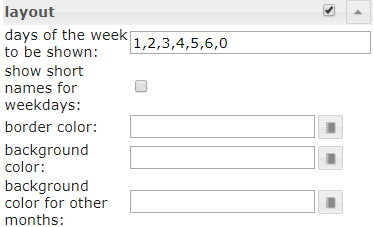
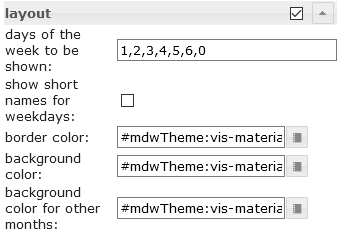
readme updated

diff --git a/README.md b/README.md
@@ -98,11 +98,14 @@ ioBroker Material Design Widgets are based on [Google's material design guidelin
 			- [Editor Settings](#editor-settings-13)
 	- [Alerts](#alerts)
 		- [Editor Settings](#editor-settings-14)
-		- [JSON Properties](#json-properties-2)
+		- [Datapoint JSON Properties](#datapoint-json-properties)
 		- [Script: send alert to widget](#script-send-alert-to-widget)
 	- [Calendar](#calendar)
-	- [Dialog](#dialog)
 		- [Editor Settings](#editor-settings-15)
+		- [Datapoint JSON Properties](#datapoint-json-properties-1)
+		- [Script: ical conversion](#script-ical-conversion)
+	- [Dialog](#dialog)
+		- [Editor Settings](#editor-settings-16)
 	- [HTML Elements](#html-elements)
 - [used libraries](#used-libraries)
 - [Changelog](#changelog)
@@ -9257,7 +9260,7 @@ Settings that are not listed in the table below are self-explanatory.
     </tbody>
 </table>
 
-### JSON Properties
+### Datapoint JSON Properties
 
 <table>
 	<thead>
@@ -9309,7 +9312,7 @@ Settings that are not listed in the table below are self-explanatory.
 </table>
 
 <!-- omit in toc -->
-#### JSON Properties - Example
+#### Datapoint JSON Properties - Example
 
 <details>
 
@@ -9387,7 +9390,100 @@ materialDesignWidgets.sendTo = function (id, text, backgroundColor = '', borderC
 
 ![Logo](doc/en/media/calendar.gif)
 
-The Calendar widget requires a JSON string as object, which must be structured as follows:
+### Editor Settings
+
+Settings that are not listed in the table below are self-explanatory.
+
+<table>
+    <thead>
+        <tr>
+            <th>Screenshot</th>
+            <th>Setting</th>
+            <th>Description</th>
+        </tr>
+    </thead>
+    <tbody>
+        <tr>
+            <td rowspan=1><img src="doc/en/media/calendar_common.png"></td>
+            <td>Object Id</td>
+            <td>id of datapoint. Datapoint must contains a json string. Allowed json properties are desribed below</td>
+        </tr>	
+        <tr>
+            <td rowspan=2><img src="doc/en/media/calendar_layout.png"></td>
+            <td>days of the week to be shown</td>
+            <td>Specifies which days of the week to display. To display Monday through Friday only, a value of <code>1, 2, 3, 4, 5</code> can be used. To display a week starting on Monday a value of <code>1, 2, 3, 4, 5, 6, 0</code> can be used.</td>
+        </tr>
+        <tr>
+            <td>Object ID</td>
+            <td>Object must be a json string, which must be structured as described above</td>
+        </tr>
+        <tr>
+            <td rowspan=2><img src="doc/en/media/calendar_timeaxis.png"></td>
+            <td>start hour</td>
+            <td>The hour from which appointments should be displayed in the week and day view.</td>
+        </tr>
+        <tr>
+            <td>end hour</td>
+            <td>The hour until which appointments should be displayed in the week and day view</td>
+        </tr>
+        <tr>
+            <td rowspan=2><img src="doc/en/media/calendar_custom_date.png"></td>
+            <td colspan=2>Override the default date formats. Allowed formats are described in the documentation of <a href="https://momentjs.com/docs/#/displaying/">momentjs</a></td></td>
+        </tr>		        
+    </tbody>
+</table>
+
+
+### Datapoint JSON Properties
+
+<table>
+	<thead>
+		<tr>
+			<th>Property</th>
+			<th>Description</th>
+			<th>Type</th>
+			<th>Values</th>
+		</tr>
+	</thead>
+	<tbody>
+		<tr>
+			<td>name</td>
+			<td>name of Event</td>
+			<td>string</td>
+			<td></td>
+		</tr>
+		<tr>
+			<td>color</td>
+			<td>background color of event</td>
+			<td>string</td>
+			<td>hex(#44739e), rgb(20, 50, 200), rgba(20, 50, 200, 0.5)</td>
+		</tr>
+		<tr>
+			<td>colorText</td>
+			<td>text color of event</td>
+			<td>string</td>
+			<td>hex(#44739e), rgb(20, 50, 200), rgba(20, 50, 200, 0.5)</td>
+		</tr>
+		<tr>
+			<td>start</td>
+			<td>start date and time of event. For all day events use only a date without time.</td>
+			<td>string</td>
+			<td>YYYY-MM-DD | YYYY-MM-DD HH:mm</td>
+		</tr>
+		<tr>
+			<td>end</td>
+			<td>end date and time of event. For all day events use only a date without time</td>
+			<td>string</td>
+			<td>YYYY-MM-DD | YYYY-MM-DD HH:mm</td>
+		</tr>
+	</tbody>
+</table>
+
+<!-- omit in toc -->
+#### Datapoint JSON Properties - Example
+
+<details>
+
 ```
 [
 	{
@@ -9406,41 +9502,14 @@ The Calendar widget requires a JSON string as object, which must be structured a
 	}
 ]
 ```
-Only hex and rgba can be used as colors!
 
-Settings that are not listed in the table below are self-explanatory.
+</details>
 
-<table>
-    <thead>
-        <tr>
-            <th>Screenshot</th>
-            <th>Setting</th>
-            <th>Description</th>
-        </tr>
-    </thead>
-    <tbody>
-        <tr>
-            <td rowspan=2><img src="doc/en/media/calendar_layout.png"></td>
-            <td>days of the week to be shown</td>
-            <td>Specifies which days of the week to display. To display Monday through Friday only, a value of <code>1, 2, 3, 4, 5</code> can be used. To display a week starting on Monday a value of <code>1, 2, 3, 4, 5, 6, 0</code> can be used.</td>
-        </tr>
-        <tr>
-            <td>Object ID</td>
-            <td>Object must be a json string, which must be structured as described above</td>
-        </tr>
-        <tr>
-            <td rowspan=2><img src="doc/en/media/calendar_timeaxis.png"></td>
-            <td>start hour</td>
-            <td>The hour from which appointments should be displayed in the week and day view.</td>
-        </tr>
-        <tr>
-            <td>end hour</td>
-            <td>The hour until which appointments should be displayed in the week and day view</td>
-        </tr>        
-    </tbody>
-</table>
+### Script: ical conversion
 
 If you want to use the widget with the [ical adapter](https://github.com/iobroker-community-adapters/ioBroker.ical), you can use the following script to convert the ical object to work with the widget.
+
+<details>
 
 ```
 // momentjs is required as dependecies in javascript adapter
@@ -9535,6 +9604,8 @@ function ical2CalendarWidget() {
 
 ical2CalendarWidget();
 ```
+
+</details>
 
 ## Dialog
 
